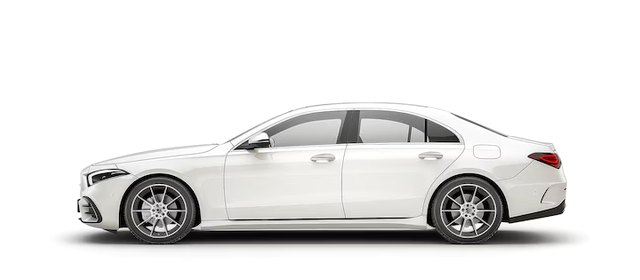
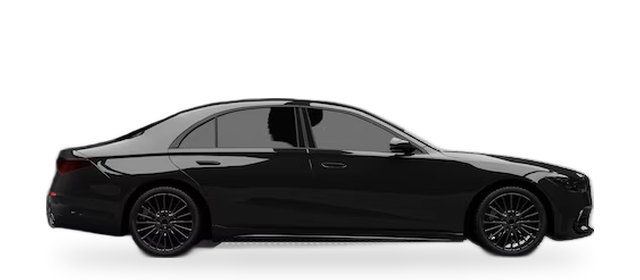
Nouvelle photo de berline détourée ; numéro de version sur CSS/JS pour forcer la mise à jour sur les téléphones
Claude-Session: https://claude.ai/code/session_01XViXvU8vNbgdS1AjHDUame

diff --git a/js/config.js b/js/config.js
@@ -80,7 +80,7 @@ window.SITE_CONFIG = {
   vehicules: [
     { id: "citadine",   nom: "Citadine",            image: "assets/vehicules/citadine.jpg",  prixMin: 80,  prixMax: 125, prix: { "formule-1": 80,  "formule-2": 125 } },
     { id: "break-suv",  nom: "SUV",                 image: "assets/vehicules/break-suv.jpg", prixMin: 90,  prixMax: 149, prix: { "formule-1": 90,  "formule-2": 149 }, note: "Ex. 3008, Tiguan, Sportage" },
-    { id: "berline",    nom: "Berline",             image: "assets/vehicules/berline.jpg",                               prixMin: 100, prixMax: 139, prix: { "formule-1": 100, "formule-2": 139 }, note: "Ex. 308, Golf, 330d" },   // photo à fournir
+    { id: "berline",    nom: "Berline",             image: "assets/vehicules/berline.jpg?v=2",                             prixMin: 100, prixMax: 139, prix: { "formule-1": 100, "formule-2": 139 }, note: "Ex. 308, Golf, 330d" },
     { id: "7-places",   nom: "7 places (van)",      image: "assets/vehicules/7-places.jpg",  prixMin: 110, prixMax: 165, prix: { "formule-1": 110, "formule-2": 165 } },
     { id: "commercial", nom: "Voiture commerciale", image: "assets/vehicules/commercial.jpg", devis: true, note: "Autour de 110 €, selon l'état du véhicule" },
   ],

diff --git a/index.html b/index.html
@@ -41,8 +41,8 @@
 
   <link rel="icon" href="assets/favicon.png" type="image/png">
   <link rel="apple-touch-icon" href="assets/apple-touch-icon.png">
-  <link rel="stylesheet" href="css/fonts.css">
-  <link rel="stylesheet" href="css/style.css">
+  <link rel="stylesheet" href="css/fonts.css?v=20261126-2">
+  <link rel="stylesheet" href="css/style.css?v=20261126-2">
 </head>
 <body>
   <a class="skip-link" href="#contenu">Aller au contenu</a>
@@ -293,10 +293,10 @@
   <!-- Bouton d'action fixe (mobile) -->
   <a href="#choix-lieu" class="sticky-cta btn btn--accent" data-sticky-cta>Réserver un créneau</a>
 
-  <script src="js/config.js"></script>
-  <script src="js/main.js"></script>
-  <script src="js/devis.js"></script>
-  <script src="js/reservation.js"></script>
-  <script src="js/lieux.js"></script>
+  <script src="js/config.js?v=20261126-2"></script>
+  <script src="js/main.js?v=20261126-2"></script>
+  <script src="js/devis.js?v=20261126-2"></script>
+  <script src="js/reservation.js?v=20261126-2"></script>
+  <script src="js/lieux.js?v=20261126-2"></script>
 </body>
 </html>

diff --git a/decision.html b/decision.html
@@ -7,8 +7,8 @@
   <meta name="robots" content="noindex, nofollow">
   <meta name="referrer" content="no-referrer">
   <link rel="icon" href="assets/favicon.png" type="image/png">
-  <link rel="stylesheet" href="css/fonts.css">
-  <link rel="stylesheet" href="css/style.css">
+  <link rel="stylesheet" href="css/fonts.css?v=20261126-2">
+  <link rel="stylesheet" href="css/style.css?v=20261126-2">
   <style>
     body { background: linear-gradient(160deg, var(--c-blue) 0%, var(--c-blue-deep) 100%); min-height: 100vh; }
     .dec { max-width: 620px; margin: 0 auto; padding: calc(24px + env(safe-area-inset-top)) max(16px, env(safe-area-inset-right)) 40px max(16px, env(safe-area-inset-left)); }
@@ -44,7 +44,7 @@
     </div>
   </main>
 
-  <script src="js/config.js"></script>
+  <script src="js/config.js?v=20261126-2"></script>
   <script>
   (function () {
     "use strict";

diff --git a/mentions-legales.html b/mentions-legales.html
@@ -6,8 +6,8 @@
   <title>Mentions légales — Tout'Net</title>
   <meta name="robots" content="noindex">
   <link rel="icon" href="assets/favicon.png" type="image/png">
-  <link rel="stylesheet" href="css/fonts.css">
-  <link rel="stylesheet" href="css/style.css">
+  <link rel="stylesheet" href="css/fonts.css?v=20261126-2">
+  <link rel="stylesheet" href="css/style.css?v=20261126-2">
   <style>
     .legal-top { background: var(--c-navy); padding: 16px 0; }
     .legal-top .brand { color: var(--c-white); }

diff --git a/CLAUDE.md b/CLAUDE.md
@@ -43,6 +43,7 @@ Ce fichier est destiné à Claude. Il résume tout ce qu'il faut savoir pour fai
 - **Sauvegardes** : quand Quentin demande d'« enregistrer le site », crée une branche `sauvegarde-AAAA-MM-JJ` à partir de `main` (l'envoi d'étiquettes Git est bloqué depuis les sessions). Pour revenir à une sauvegarde, remets son contenu sur `main` après accord de Quentin. Sauvegardes existantes :
   - `sauvegarde-2026-11-24` : site d'origine (couleurs vives, carte de zone) ;
   - `sauvegarde-2026-11-26` : couleurs « bleu nuit / jaune mat », section « Chez vous ou à l'atelier », choix du lieu au début de la réservation.
+- **Cache des téléphones** : les fichiers CSS et JS sont appelés avec un numéro de version (`style.css?v=20261126-2`, dans `index.html`, `mentions-legales.html`, `decision.html`). **À chaque modification d'un fichier CSS ou JS, augmente ce numéro dans les trois pages**, sinon les téléphones (surtout le navigateur d'Instagram) gardent l'ancienne version. Pour une image remplacée sous le même nom, ajoute aussi `?v=N` à son chemin dans `config.js`.
 - Après publication, invite Quentin à recharger la page sur son téléphone. Si l'ancienne version reste affichée, c'est le cache : tirer vers le bas pour recharger, ou attendre une minute.
 
 ## 4. Organisation des fichiers
@@ -92,7 +93,7 @@ sitemap.xml, robots.txt, CNAME
   | 7 places (`7-places`) | 110 € | 165 € |
   | Voiture commerciale (`commercial`) | sur devis (« autour de 110 €, selon l'état du véhicule ») | sur devis |
 
-  Camion et Utilitaire ont été retirés le 26/11/2026. `berline` est un nouvel id (27/11/2026) ; Quentin a ajouté ses lignes dans l'onglet « Durées » et mis toutes les durées à jour (formule-1 = 90, formule-2 = 150, options = 30) le 27/11/2026. Photo de la berline (`assets/vehicules/berline.jpg`) fournie par Quentin le 27/11/2026, recadrée au format 640 × 280 fond blanc.
+  Camion et Utilitaire ont été retirés le 26/11/2026. `berline` est un nouvel id (27/11/2026) ; Quentin a ajouté ses lignes dans l'onglet « Durées » et mis toutes les durées à jour (formule-1 = 90, formule-2 = 150, options = 30) le 27/11/2026. Photo de la berline (`assets/vehicules/berline.jpg`, berline noire) fournie par Quentin (libre de droits selon lui), détourée avec rembg et posée sur fond blanc 640 × 280 avec une ombre douce.
 
 - `formules` : deux formules, affichées dans cet ordre (27/11/2026 : compromis à gauche, complet à droite, **même taille** ; le complet reste en bleu avec le badge « Recommandée »).
   - `formule-1` **Le compromis** (prix d'appel), environ **1 h 30** : aspiration de l'intérieur, nettoyage des plastiques, nettoyage des vitres, lustrage des plastiques. À ne pas présenter comme un mauvais choix.
